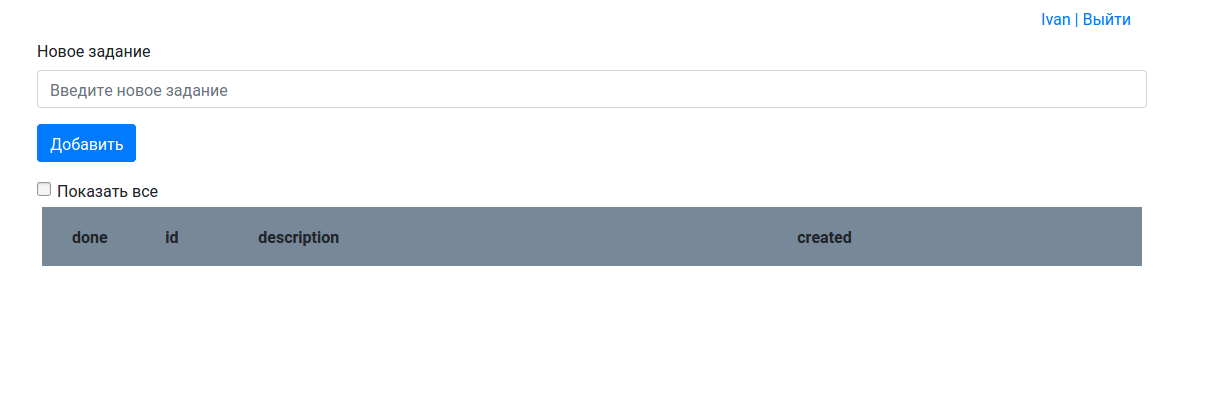
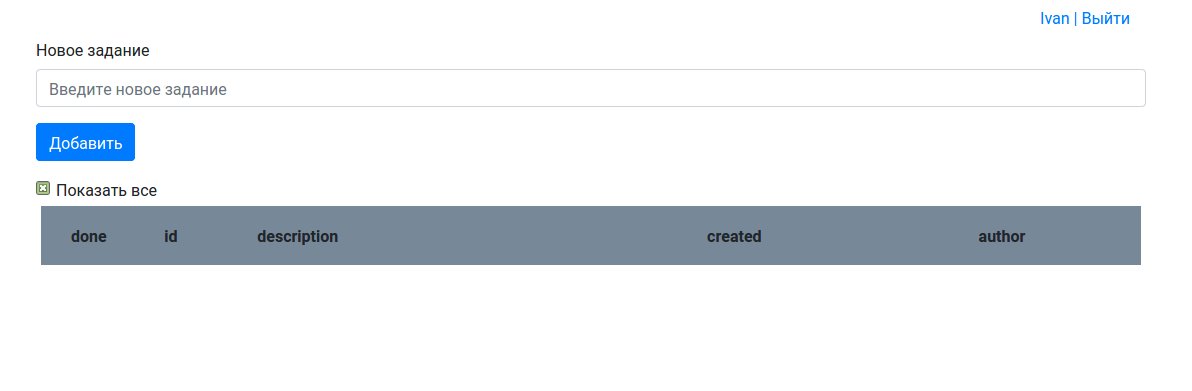
Добавил вывод автора задания

diff --git a/src/main/webapp/js/main.js b/src/main/webapp/js/main.js
@@ -21,22 +21,23 @@ let addTask = function (id, taskName, created, isDone) {
         dataType: 'json'
     }).done(function (data) {
         let item = data.item;
-        addToFront(item.id, item.description, item.created, JSON.parse(item.done));
+        addToFront(item.id, item.description, item.created, JSON.parse(item.done), item.user.name);
     }).fail(function (err) {
 
     });
 }
 
-let addToFront = function (id, taskName, created, done) {
+let addToFront = function (id, taskName, created, done, username) {
     let doneSpan = $("<span></span>").addClass("col-1").append("<input type='checkbox'>");
     let idSpan = $("<span></span>").addClass("col-1").text(id);
-    let descSpan = $("<span></span>").addClass("col-6").text(taskName);
+    let descSpan = $("<span></span>").addClass("col-5").text(taskName);
     let createdSpan = $("<span></span>").addClass("col-3").text(formatDate(created));
+    let authorSpan = $("<span></span>").addClass("col-1").text(username);
     let deleteSpan = $("<span></span>").append("<i class='fa fa-trash col-1'></i>");
     let item = $("<div></div>")
         .addClass("todo-item")
         .prop('id', id)
-        .append(doneSpan, " ", idSpan, " ", descSpan, " ", createdSpan, " ", deleteSpan);
+        .append(doneSpan, " ", idSpan, " ", descSpan, " ", createdSpan, " ", authorSpan, " ", deleteSpan);
     $("#list").append(item);
     if (done) {
         $("#" + id + " input:checkbox").prop('checked', true);
@@ -112,7 +113,8 @@ let getAllTasks = function () {
             let description = items[i]["description"];
             let created = items[i]["created"]
             let done = JSON.parse(items[i]["done"]);
-            addToFront(id, description, created, done);
+            let username = items[i]["user"]["name"];
+            addToFront(id, description, created, done, username);
         }
         $("#userinfo a").text(user + " | Выйти");
     }).fail(function (err) {

diff --git a/src/main/webapp/todo.html b/src/main/webapp/todo.html
@@ -40,8 +40,9 @@
                 <div class="todo-header">
                     <span class="col-1">done</span>
                     <span class="col-1">id</span>
-                    <span class="col-6">description</span>
+                    <span class="col-5">description</span>
                     <span class="col-3">created</span>
+                    <span class="col-1">author</span>
                     <span class="col-1"></span>
                 </div>
             </div>

diff --git a/src/main/java/ru/job4j/todo/store/StoreHbm.java b/src/main/java/ru/job4j/todo/store/StoreHbm.java
@@ -87,9 +87,6 @@ public class StoreHbm implements Store {
                 Query userQuery = session.createQuery("from User where name = :username");
                 userQuery.setParameter("username" , userName);
                 User user = (User) userQuery.uniqueResult();
-                if (user == null) {
-                    throw new RuntimeException("There is no user named " + userName + " in the database");
-                }
                 return user;
             }
         );
